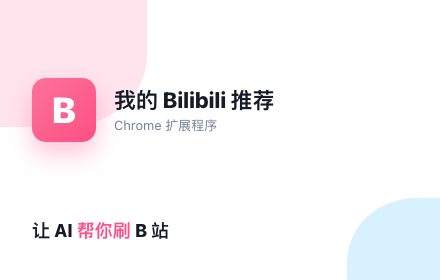
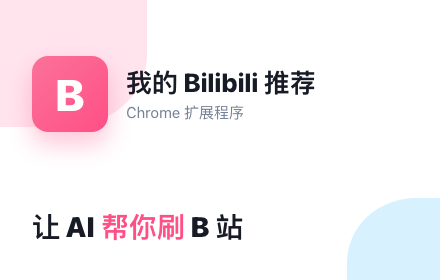
fix(promo): bump promo-tile font sizes for readability after CWS downscale
The 440×280 tile gets downscaled again in Chrome Web Store listings
(browse/search pages). Original sizes felt OK at native 440px but
washed out at thumbnail size.

- B logo 64 → 76 (more prominent at small sizes)
- Brand name 22 → 26
- Subtitle 13 → 15
- Tagline 18 → 28 + weight 800 → 900 (now the loudest element,
  proper call-to-action hierarchy)

Changed region(s): [[0.0591, 0.2, 0.7386, 0.5143], [0.0591, 0.7429, 0.5614, 0.8571]]

diff --git a/src/promo/scenes/promo-tile.tsx b/src/promo/scenes/promo-tile.tsx
@@ -2,41 +2,46 @@
 // Chrome Web Store 小型宣传图块 — 440×280.
 // Pure brand billboard: B logo + name + Chrome subtitle + one-line tagline.
 // No product UI (would be unreadable at this size).
+//
+// Font sizing principle: this tile gets DOWNSCALED again in Chrome Web Store
+// listings (browse pages, search results), so every typographic decision
+// should be made for "still readable at half size". Tagline is the loudest
+// element since it's the only call-to-action; brand block is supporting.
 import Stage from '../components/layout/Stage'
 
 export default function PromoTileScene() {
   return (
     <Stage width={440} height={280}>
-      {/* Brand block — centered vertically, slightly left of center */}
+      {/* Brand block — upper area, slightly left of center */}
       <div style={{
         position: 'absolute',
-        left: 32, top: 78,
+        left: 32, top: 56,
         display: 'flex', alignItems: 'center', gap: 18,
         zIndex: 4,
       }}>
         <div style={{
-          width: 64, height: 64, borderRadius: 14,
+          width: 76, height: 76, borderRadius: 16,
           background: 'linear-gradient(135deg, #fb7299 0%, #ff4f86 100%)',
           color: 'white',
           display: 'flex', alignItems: 'center', justifyContent: 'center',
-          fontSize: 36, fontWeight: 900,
+          fontSize: 44, fontWeight: 900,
           boxShadow: '0 12px 24px rgba(251, 79, 134, 0.32)',
         }}>B</div>
         <div>
-          <div style={{ fontSize: 22, lineHeight: 1.1, fontWeight: 800, color: '#171b26' }}>
+          <div style={{ fontSize: 26, lineHeight: 1.1, fontWeight: 800, color: '#171b26' }}>
             我的 Bilibili 推荐
           </div>
-          <div style={{ marginTop: 6, fontSize: 13, lineHeight: 1.1, color: '#748094' }}>
+          <div style={{ marginTop: 7, fontSize: 15, lineHeight: 1.1, color: '#748094' }}>
             Chrome 扩展程序
           </div>
         </div>
       </div>
 
-      {/* Tagline — bottom band */}
+      {/* Tagline — bottom band, loudest text on the tile */}
       <div style={{
         position: 'absolute',
-        left: 32, right: 32, bottom: 38,
-        fontSize: 18, fontWeight: 800, lineHeight: 1.25,
+        left: 32, right: 32, bottom: 36,
+        fontSize: 28, fontWeight: 900, lineHeight: 1.2,
         color: '#171b26',
         zIndex: 4,
       }}>
